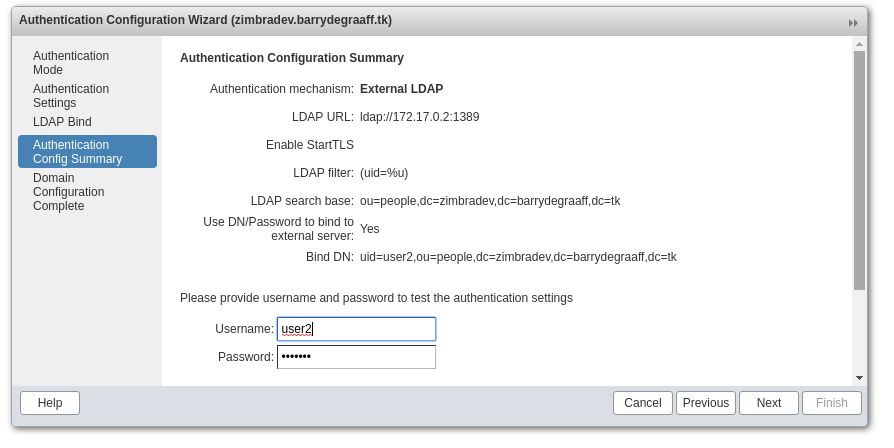
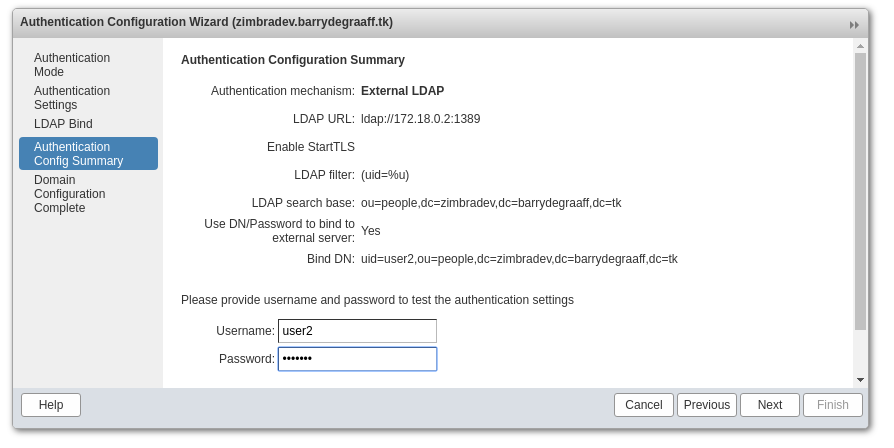
fixed ip address for docker container

diff --git a/README.md b/README.md
@@ -69,7 +69,8 @@ For now there is no separate login screen for the 2FA token, so the user must ap
 
 6. Run the privacy-idea container
 
-        docker run --init -p 5000:443 --name privacyidea --restart=always -v privacyidea_data:/etc/privacyidea -v privacyidea_log:/var/log/privacyidea -v privacyidea_mariadb:/var/lib/mysql -v /opt/privacyIdeaLDAPProxy:/opt/privacyIdeaLDAPProxy -d zetalliance/privacy-idea:latest
+        docker network create --subnet=172.18.0.0/16 zimbradocker
+        docker run --init --net zimbradocker --ip 172.18.0.2 -p 5000:443 --name privacyidea --restart=always -v privacyidea_data:/etc/privacyidea -v privacyidea_log:/var/log/privacyidea -v privacyidea_mariadb:/var/lib/mysql -v /opt/privacyIdeaLDAPProxy:/opt/privacyIdeaLDAPProxy -d zetalliance/privacy-idea:latest
 
    You should be able to connect to PrivacyIDEA at https://yourzimbra:5000/ it can take a couple of minutes for it to start. Default username: admin/test (you change it now by running `docker exec -it privacyidea /usr/bin/pi-manage admin change -p admin`). Do not create the Initial Realm if PrivacyIDEA asks you when you log in to the web interface!
 
@@ -79,7 +80,7 @@ For now there is no separate login screen for the 2FA token, so the user must ap
 
        firewall-cmd --permanent --zone=public --add-rich-rule='
           rule family="ipv4"
-          source address="172.17.0.2/32"
+          source address="172.18.0.2/32"
           port protocol="tcp" port="389" accept'
        firewall-cmd --reload
 
@@ -109,7 +110,7 @@ For now there is no separate login screen for the 2FA token, so the user must ap
    You must append to OTP code to the password like so:
 
        ldapsearch -x -H ldap://zimbraserver:389 -D uid=user2,ou=people,dc=zimbradev,dc=barrydegraaff,dc=tk -w "PASSWORD HERE" "mail=*"
-       ldapsearch -x -H ldap://172.17.0.2:1389 -D uid=user2,ou=people,dc=zimbradev,dc=barrydegraaff,dc=tk -w "PASSWORD HERE***OTP HERE***" "mail=*"
+       ldapsearch -x -H ldap://172.18.0.2:1389 -D uid=user2,ou=people,dc=zimbradev,dc=barrydegraaff,dc=tk -w "PASSWORD HERE***OTP HERE***" "mail=*"
 
    If it does not work, check if PrivacyIDEA works directly using the API `curl -d "user=user1&pass=testabc387223" -X POST http://zimbraserver:5000/validate/check`, don't forget your firewall.
      
